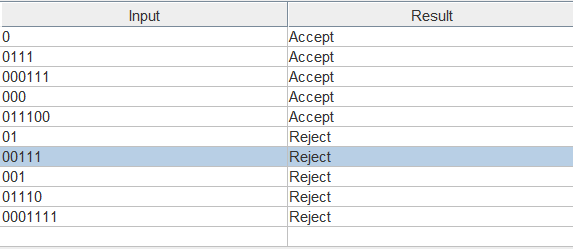
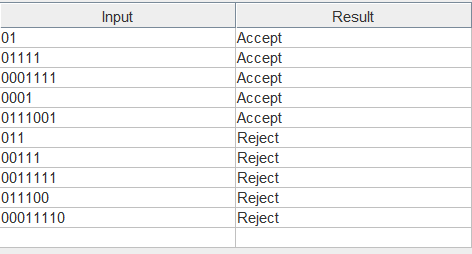
Corrected p21 and updated README

Changed region(s): [[0.0, 0.0, 1.0, 1.0], [0.0, 0.1968, 0.089, 0.253]]

diff --git a/README.md b/README.md
@@ -1,0 +1,10 @@
+1\. There weren't any problems that i Had an issue with in the beginning, towards the end there were some problems that gave me a hard time but after multiple attempts I was able to finish them. Hopefully they are correct.... There weren't any problems that I avoided in particular, But i did ask AI to check my work to make sure that there weren't any test cases that would make the designs incorrect. 
+
+
+
+2\. I didn't have any gold-strings. I made a error in 21 when i read the problem wrong multiple times other than that it was a easy fix. 
+
+
+
+3\. none
+
